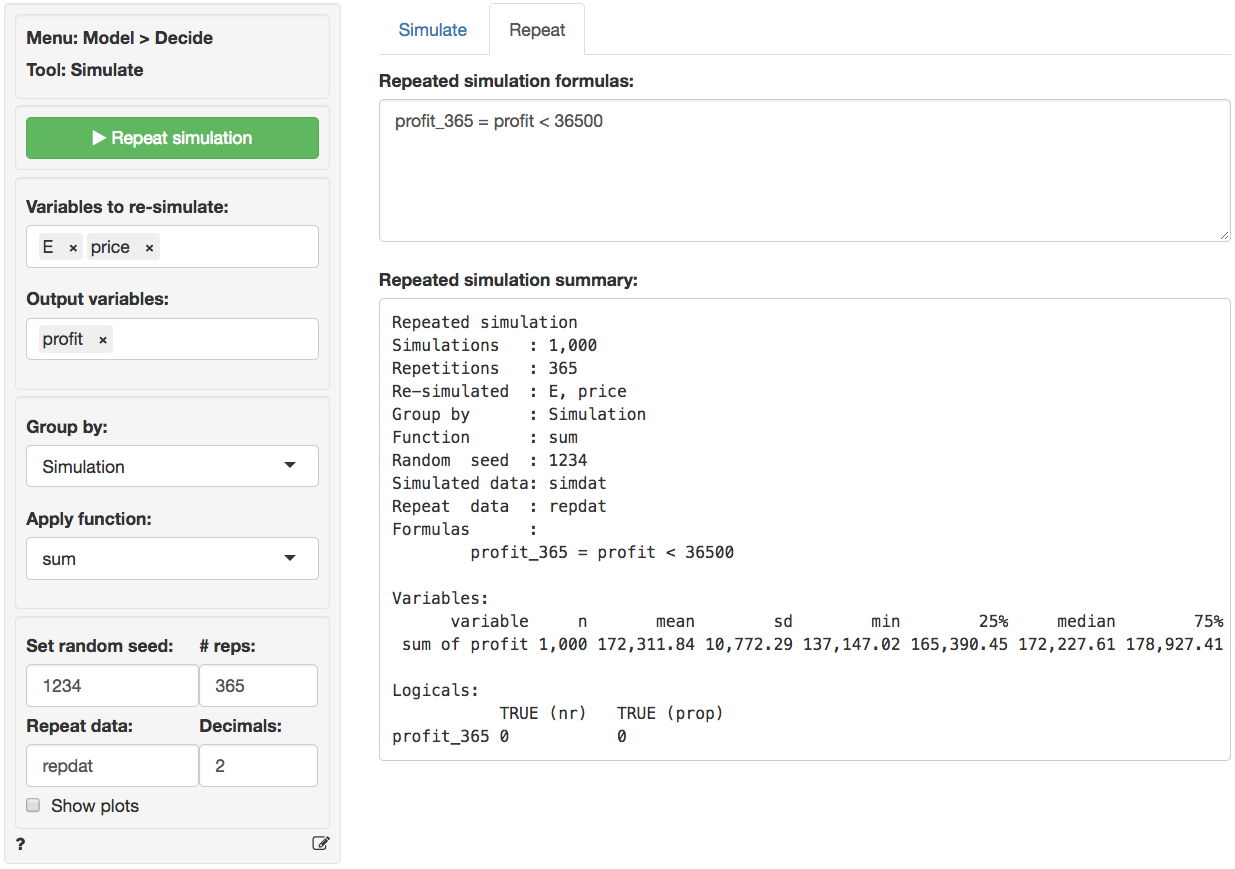
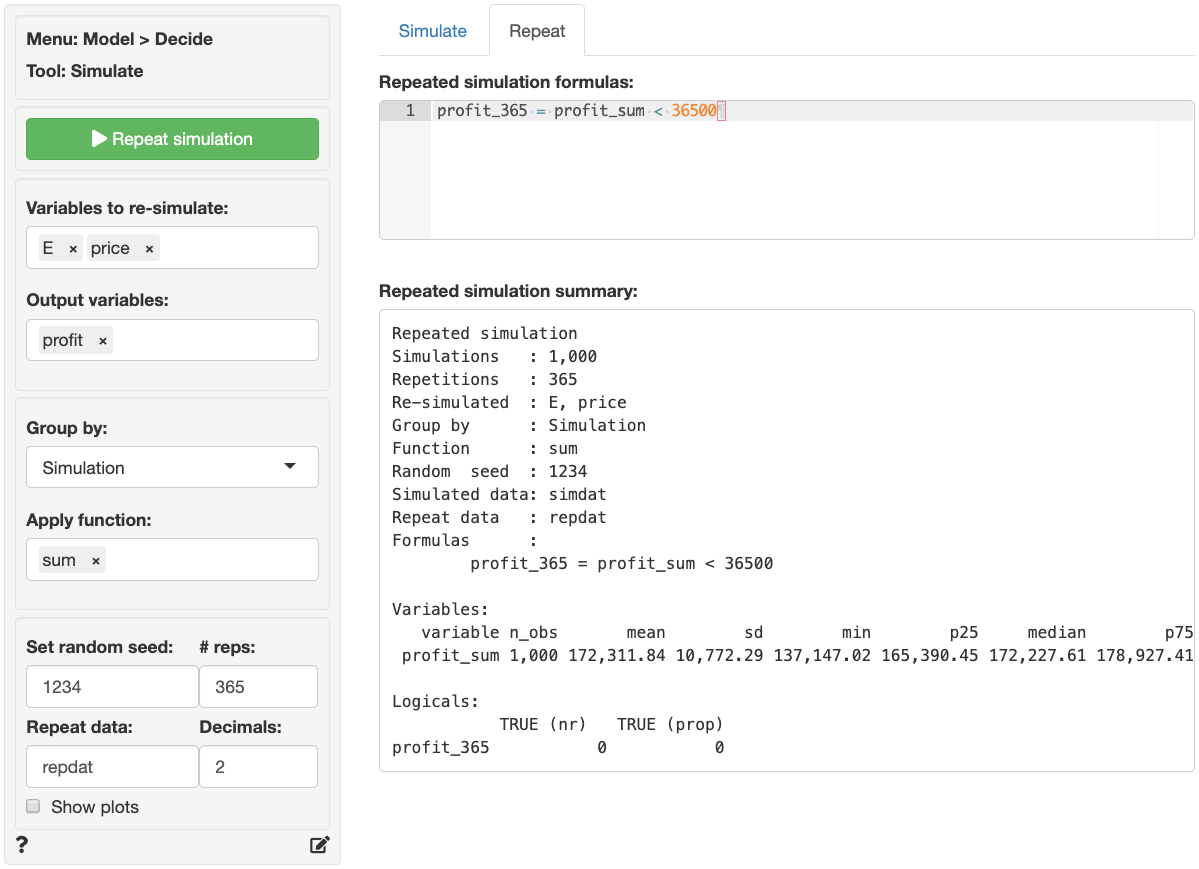
repeat docs

diff --git a/inst/app/tools/help/simulater.md b/inst/app/tools/help/simulater.md
@@ -229,7 +229,7 @@ See the table below for an example:
 </table>
 
 
-Other commonly used functions are `ln` for the natural logarithm (e.g., ln(x)), `sqrt` for the square-root of x (e.g., sqrt(x)) and `square` to calculate square of a variable (e.g., square(x)).
+Other commonly used functions are `ln` for the natural logarithm (e.g., `ln(x)`), `sqrt` for the square-root of x (e.g., `sqrt(x)`) and `square` to calculate square of a variable (e.g., `square(x)`).
 
 To return a single value from a calculation use functions such as `min`, `max`, `mean`, `sd`, etc.
 
@@ -271,23 +271,23 @@ Because we specified a name in the `Simulated data` box the data are available a
 
 ## Repeating the simulation
 
-Suppose the simulation discussed above was used to get a better understanding of daily profits. To develop insights into annual profits we could re-run the simulation 365 times. This can be done easily by using the functionality available in the _Repeat_ tab. First, select the `Variables to re-simulate`, here `E` and `price`. Then select the variable(s) of interest in the `Output variables` box (e.g., `profit`). Set `# reps` to 365.
+Suppose the simulation discussed above was used to get a better understanding of daily profits. To develop insights into annual profits we could re-run the simulation 365 times. However, this can be done more conveniently by using the functionality available in the _Repeat_ tab. First, select the `Variables to re-simulate`, here `E` and `price`. Then select the variable(s) of interest in the `Output variables` box (e.g., `profit`). Set `# reps` to 365.
 
-Next, we need to determine how to summarize the data. If we select `Simulation` in `Group by` the data will be summarized for each draw in the simulation **across** 365 repeated simulations resulting in 1,000 values. If we select `Repeat` in `Group by` the data will be summarized for each repetition **across** 1000 simulations resulting in 365 values. If you imagine the full set of repeated simulated data as a table with 1,000 rows and 365 columns, grouping by `Simulation` will create a summary statistic for each row and grouping by `Repeat` will create a summary statistic for each column. In this example we want to determine the `sum` of simulated daily profits across 365 repetitions so we select `Simulation` in the `Group by` box and `sum` in the `Apply function` box.
+Next, we need to determine how to summarize the data. If we select `Simulation` in `Group by` the data will be summarized for each draw in the simulation **across** 365 repeated simulations resulting in 1,000 values. If we select `Repeat` in `Group by` the data will be summarized for each repetition **across** 1,000 simulations resulting in 365 values. If you imagine the full set of repeated simulated data as a table with 1,000 rows and 365 columns, grouping by `Simulation` will create a summary statistic for each row and grouping by `Repeat` will create a summary statistic for each column. In this example we want to determine the `sum` of simulated daily profits across 365 repetitions so we select `Simulation` in the `Group by` box and `sum` in the `Apply function` box.
 
 To determine, the probability that annual profits are below \$36,500 we enter the formula below into the `Repeated simulation formula` text input.
 
 ```r
-profit_365 = profit < 36500
+profit_365 = profit_sum < 36500
 ```
 
-When you are done with the input values click the `Repeat` button. Because we specified a name for `Repeat data` a new data set will be created. `repdat` will contain the summarized data grouped per simulation (i.e., 1,000 rows). To store all 365 x 1,000 simulations/repetitions select `none` from the `Apply function` dropdown.
+Note that `profit_sum` is the `sum` of repeated simulations of the `profit` variable defined in the _Simulate_ tab. When you are done with the input values click the `Repeat` button. Because we specified a name for `Repeat data` a new data set will be created. `repdat` will contain the summarized data grouped per simulation (i.e., 1,000 rows). To store all 365 x 1,000 simulations/repetitions select `none` from the `Apply function` dropdown.
 
-Descriptive statistics for the repeated simulation are shown in the main panel under `Repeated simulation summary`. We see that the annual expected profit (i.e., the mean of `sum of profit`) for the company is 172,311.84 with a standard deviation of 10,772.29. Although we found above that daily profits can be below \$100, the chance that profits are below $365 \times 100$ for the entire year are slim to none (i.e., the proportion of repeated simulations with annual profits below \$36,500 is equal to 0).
+Descriptive statistics for the repeated simulation are shown in the main panel under `Repeated simulation summary`. We see that the annual expected profit (i.e., the mean of `profit_sum`) for the company is 172,311.84 with a standard deviation of 10,772.29. Although we found above that daily profits can be below \$100, the chance that profits are below $365 \times 100$ for the entire year are slim to none (i.e., the proportion of repeated simulations with annual profits below \$36,500 is equal to 0).
 
 <p align="center"><img src="figures_model/simulater_repeat.png"></p>
 
-If `Show plots` is checked a histogram of annual profits (`sum of profit`) is shown under `Repeated simulation plots`. There is no plot for `profit_365` because it has only one value (i.e., FALSE).
+If `Show plots` is checked a histogram of annual profits (`profit_sum`) is shown under `Repeated simulation plots`. There is no plot for `profit_365` because it has only one value (i.e., FALSE).
 
 <p align="center"><img src="figures_model/simulater_repeat_plot.png"></p>
 
@@ -305,10 +305,11 @@ Add code to <a href="https://radiant-rstats.github.io/docs/data/report_rmd.html"
 
 If a plot was created it can be customized using `ggplot2` commands or with `patchwork`. See example below and <a href="https://radiant-rstats.github.io/docs/data/visualize.html" target="_blank">_Data > Visualize_</a> for details.
 
+
 ```r
 plot(result, custom = TRUE) %>%
   wrap_plots(plot_list, ncol = 2) + plot_annotation(title = "Simulation plots")
-``
+```
 
 ### R-functions
 
